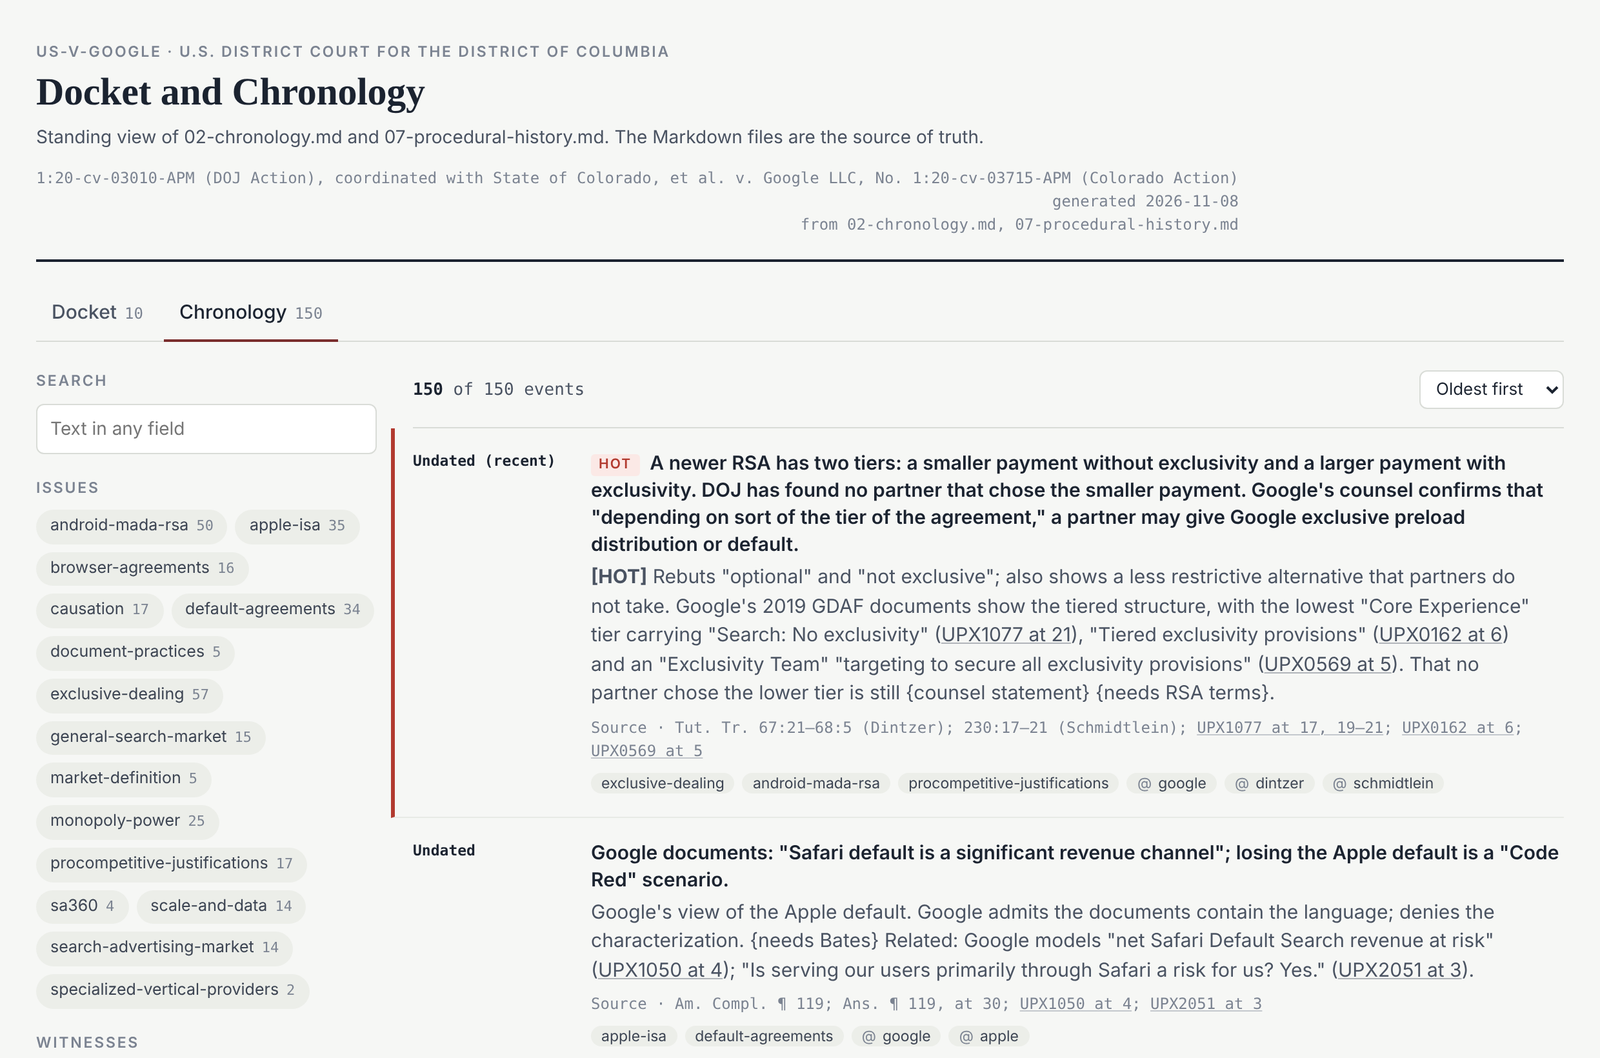
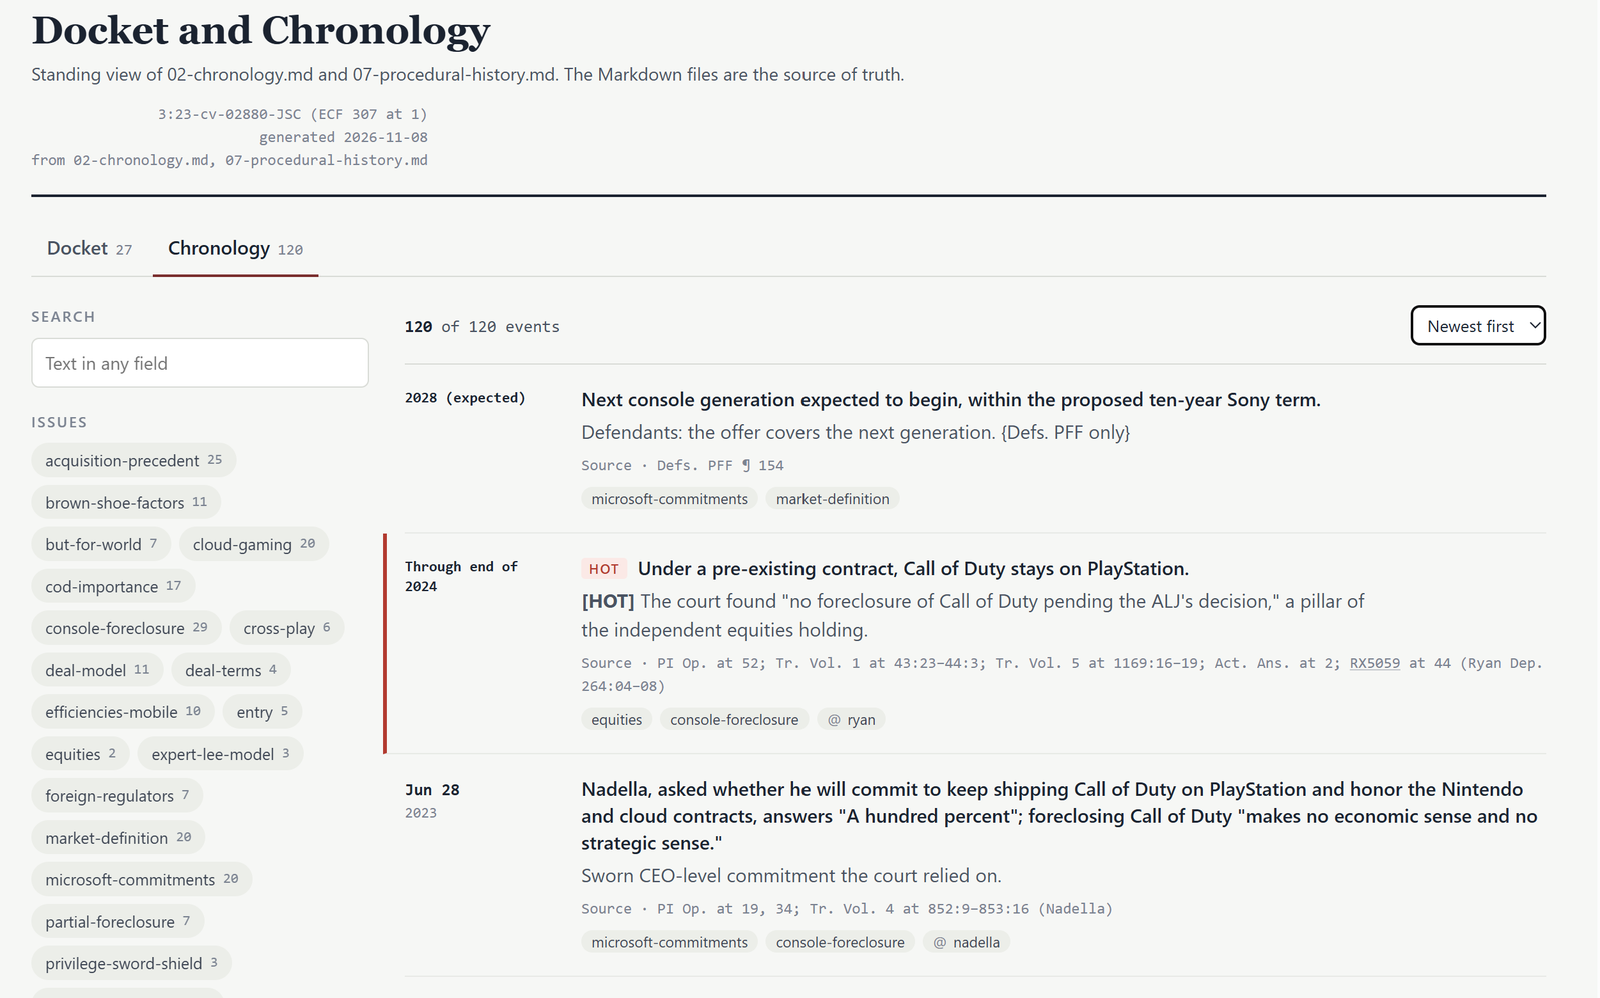
Add files via upload

diff --git a/license.html b/license.html
@@ -21,10 +21,10 @@
 <body>
 <div class="bar"><a href="index.html">BartleBot</a></div>
 <main>
-<h1>BartleBot Evaluation License</h1>
-<p><em>Version 1.0 — November 6, 2026</em></p>
-<p>Copyright © 2026 Amy E. Tabor ("Licensor"). All rights reserved except as granted below.</p>
-<p>By downloading, installing, or using BartleBot (the "Software"), you agree to this license. If you do not agree, do not download, install, or use the Software. "You" means the individual who uses the Software and, if you use it for a law firm or other organization, that organization.</p>
+<h1>BartleBot™ Evaluation License</h1>
+<p><em>Version 1.1 — November 10, 2026</em></p>
+<p>Copyright © 2026 Amy E. Tabor (&quot;Licensor&quot;). All rights reserved except as granted below.</p>
+<p>By downloading, installing, or using BartleBot (the &quot;Software&quot;), you agree to this license. If you do not agree, do not download, install, or use the Software. &quot;You&quot; means the individual who uses the Software and, if you use it for a law firm or other organization, that organization.</p>
 <h2>1. Evaluation grant</h2>
 <p>Licensor grants you a free, personal, nonexclusive, nontransferable, revocable license to install and use the Software to evaluate it, for the term in Section 6. You may use the Software in your law practice, including on client matters, during the evaluation.</p>
 <h2>2. Modifications</h2>
@@ -37,7 +37,7 @@
 <li>use the BartleBot name or logo, except to refer to the Software accurately.</li>
 </ol>
 <h2>4. Feedback</h2>
-<p>If you send Licensor comments, suggestions, bug reports, or modifications ("Feedback"), you grant Licensor a perpetual, irrevocable, royalty-free right to use and incorporate that Feedback in the Software without obligation to you. Do not include client confidential information in Feedback.</p>
+<p>If you send Licensor comments, suggestions, bug reports, or modifications (&quot;Feedback&quot;), you grant Licensor a perpetual, irrevocable, royalty-free right to use and incorporate that Feedback in the Software without obligation to you. Do not include client confidential information in Feedback.</p>
 <h2>5. Your professional responsibility</h2>
 <p>The Software is a set of instructions and templates that run inside your own Claude account and connected apps. It is not a law firm, does not give legal advice, and does not replace a lawyer's judgment.</p>
 <ol>
@@ -49,12 +49,12 @@
 <h2>6. Term and termination</h2>
 <p>This license runs from when you first install the Software until Licensor's written notice ending the evaluation, which may be given by email at any time and for any reason. It ends automatically if you breach it. When it ends, you must stop using the Software and delete all copies, including modified copies. Work product you created with the Software remains yours. Sections 4, 5, 7, 8, and 9 survive termination.</p>
 <h2>7. No warranty</h2>
-<p>THE SOFTWARE IS PROVIDED "AS IS," WITHOUT WARRANTY OF ANY KIND, EXPRESS OR IMPLIED, INCLUDING ANY WARRANTY OF MERCHANTABILITY, FITNESS FOR A PARTICULAR PURPOSE, ACCURACY, OR NONINFRINGEMENT. THE SOFTWARE IS AN EVALUATION VERSION AND MAY CONTAIN ERRORS. LICENSOR HAS NO OBLIGATION TO PROVIDE SUPPORT, UPDATES, OR FIXES.</p>
+<p>THE SOFTWARE IS PROVIDED &quot;AS IS,&quot; WITHOUT WARRANTY OF ANY KIND, EXPRESS OR IMPLIED, INCLUDING ANY WARRANTY OF MERCHANTABILITY, FITNESS FOR A PARTICULAR PURPOSE, ACCURACY, OR NONINFRINGEMENT. THE SOFTWARE IS AN EVALUATION VERSION AND MAY CONTAIN ERRORS. LICENSOR HAS NO OBLIGATION TO PROVIDE SUPPORT, UPDATES, OR FIXES.</p>
 <h2>8. Limitation of liability</h2>
 <p>TO THE FULLEST EXTENT PERMITTED BY LAW, LICENSOR WILL NOT BE LIABLE FOR ANY INDIRECT, INCIDENTAL, SPECIAL, CONSEQUENTIAL, OR PUNITIVE DAMAGES, OR FOR ANY LOSS OF DATA, MISSED DEADLINE, SANCTION, OR LOSS OF BUSINESS, ARISING FROM THE SOFTWARE OR THIS LICENSE, EVEN IF ADVISED OF THE POSSIBILITY. LICENSOR'S TOTAL LIABILITY UNDER THIS LICENSE WILL NOT EXCEED ONE HUNDRED DOLLARS (US $100).</p>
 <h2>9. General</h2>
 <ol>
-<li><strong>Ownership.</strong> Licensor owns the Software. No rights are granted except those expressly stated.</li>
+<li><strong>Ownership.</strong> Licensor owns the Software. BartleBot™ is a trademark of Licensor. No rights are granted except those expressly stated.</li>
 <li><strong>Governing law and venue.</strong> Texas law governs this license, without regard to conflict-of-laws rules. Any dispute will be brought only in the state or federal courts in Harris County, Texas.</li>
 <li><strong>Entire agreement.</strong> This is the entire agreement about the evaluation and supersedes any prior understanding about it. A later commercial license, if any, will be a separate agreement.</li>
 <li><strong>Contact.</strong> amyetabor@gmail.com</li>

diff --git a/index.html b/index.html
@@ -150,7 +150,7 @@
       <p>BartleBot tags each event in the chronology by issue and by witness, with a citation to its source. Filter to one issue or one witness and you have a mini-chronology for a deposition or a brief. The docket gets the same treatment, sorted by pleadings, dispositive motions, and discovery motions.</p>
     </div>
     <figure>
-      <img src="assets/chronology.png" width="1600" height="1058" alt="Chronology view for a demonstration case, with filters for issues and witnesses and a list of events, each with source citations." loading="lazy">
+      <img src="assets/chronology.png" width="1600" height="998" alt="Docket and Chronology view for a demonstration case, with a search box, issue filters with counts, and a list of dated events, each with source citations and issue and witness tags." loading="lazy">
       <figcaption>Demonstration built from public court records. The law firm and its work product are fictional.</figcaption>
     </figure>
   </div>
@@ -222,8 +222,13 @@
   <div class="wrap">
     <div class="box">
       <h2>Request a free trial</h2>
-      <p>BartleBot is shared by invitation during the evaluation period. To ask for an invitation, complete a short request form.</p>
-      <a class="button" href="https://docs.google.com/forms/d/e/1FAIpQLSfOetjUEhafq3QSmWn3RQnXPrtexauhEsavm58cnkVfd4WN7A/viewform">Open the request form</a>
+      <p>BartleBot is shared by invitation during the evaluation period. Send an email with:</p>
+      <ol>
+        <li>Your name and firm</li>
+        <li>Your state and practice area</li>
+        <li>The email address to invite</li>
+      </ol>
+      <a class="button" href="mailto:bartlebot.plugin@gmail.com?subject=BartleBot%20trial%20request">Email a trial request</a>
     </div>
   </div>
 </section>
